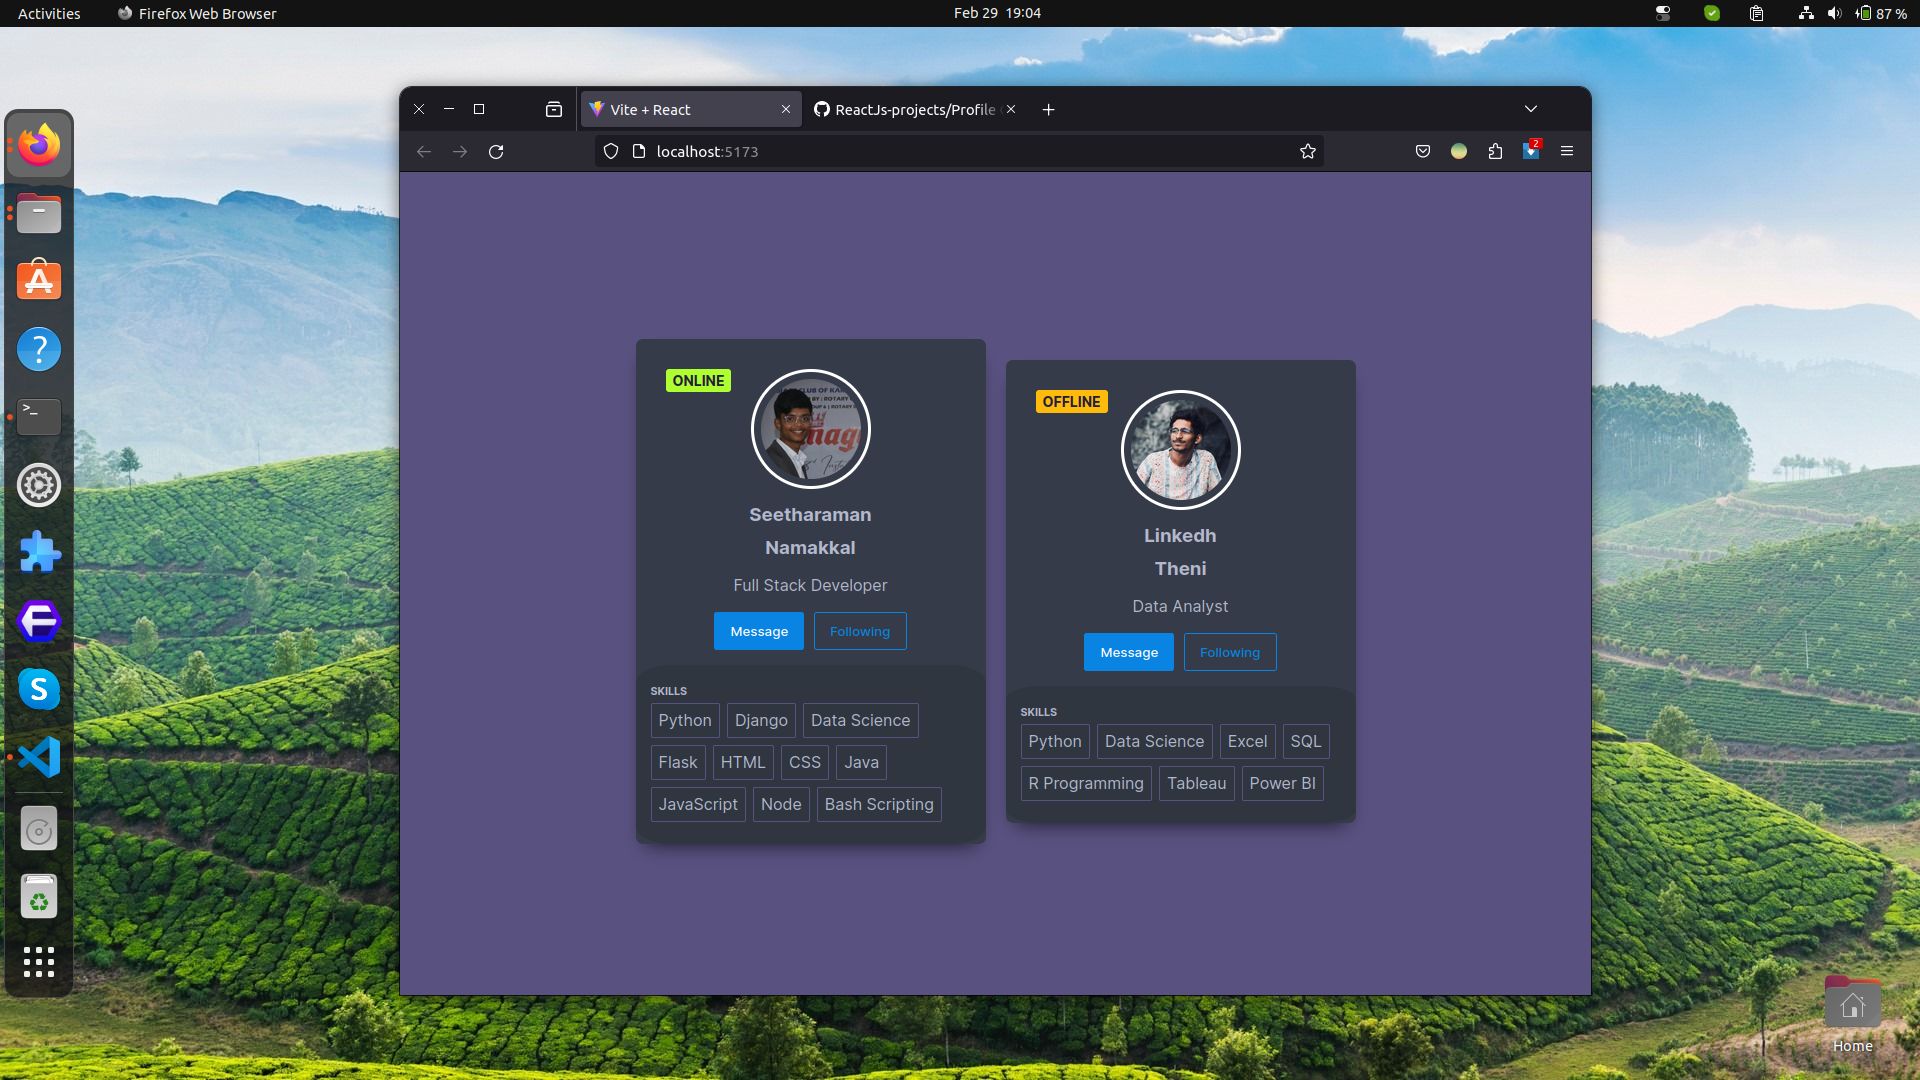
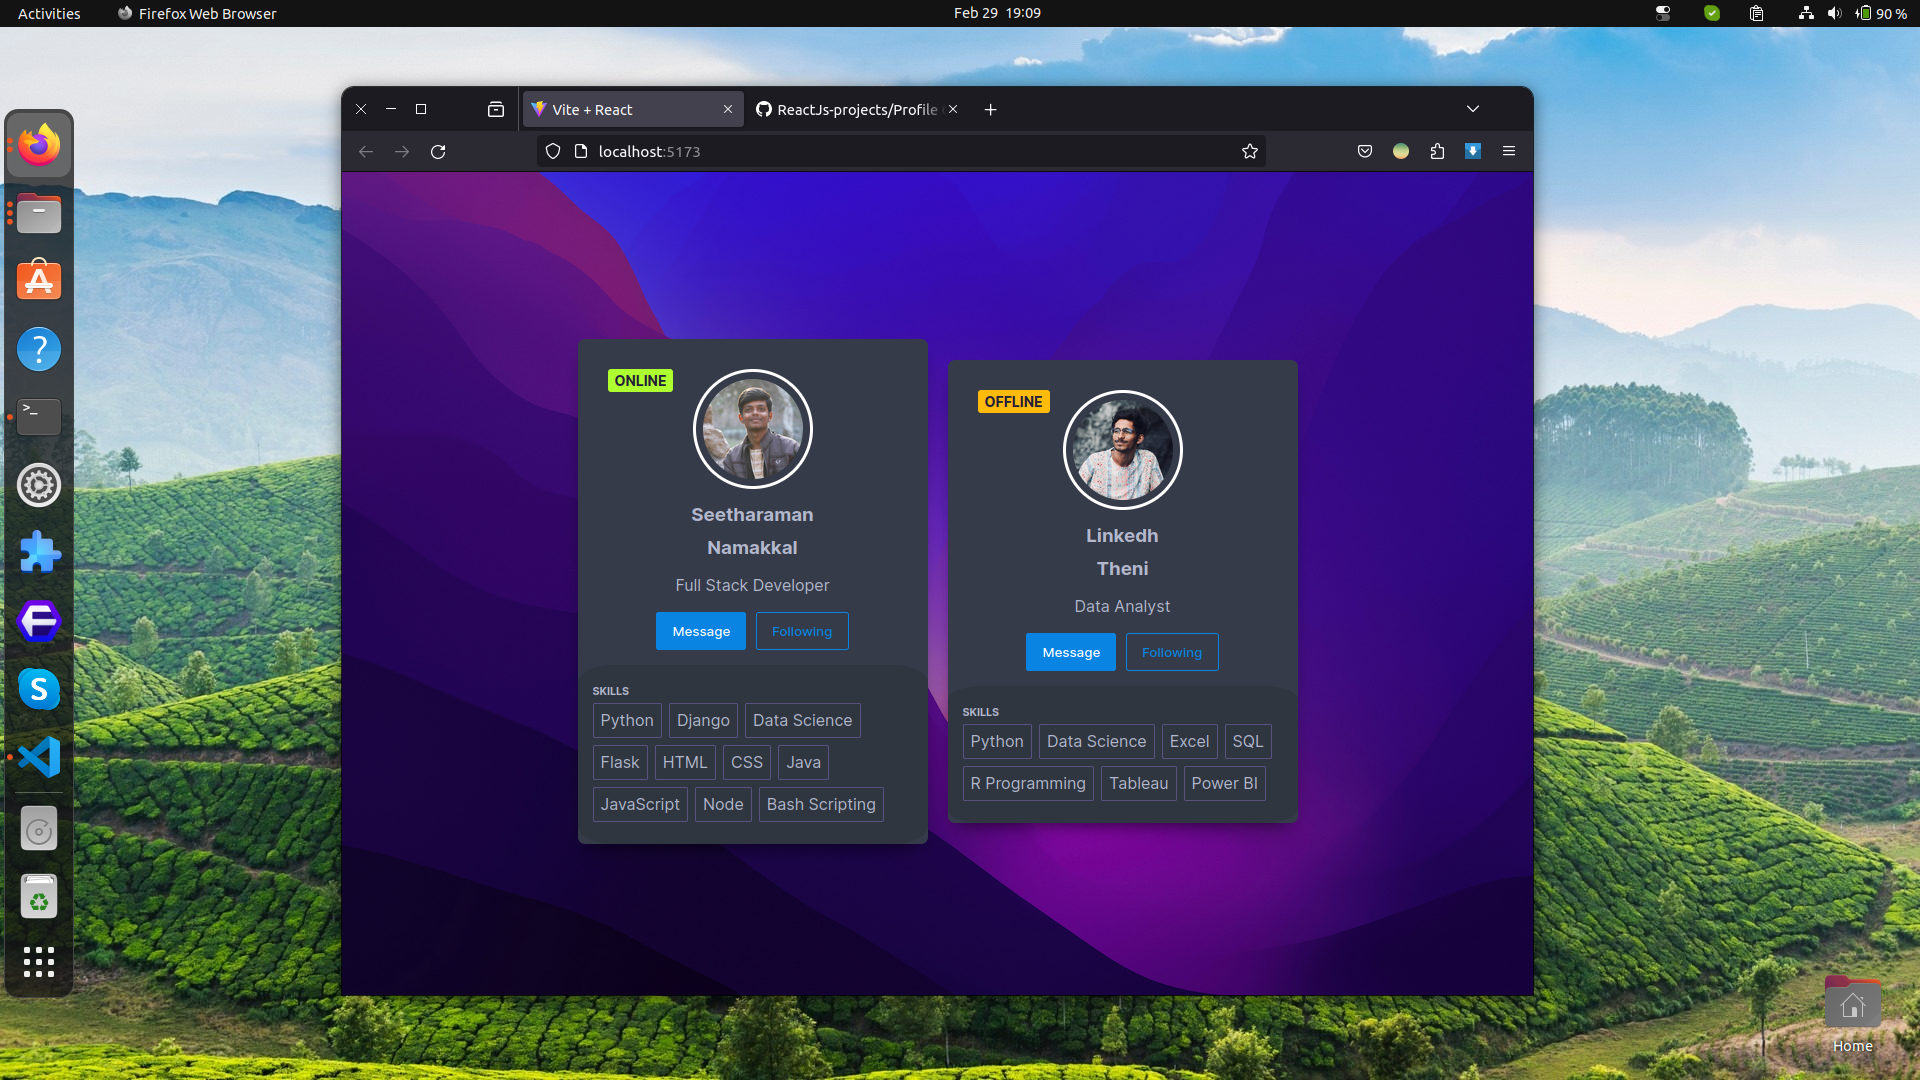
Added background

diff --git a/Profile Card/src/index.css b/Profile Card/src/index.css
@@ -6,6 +6,10 @@
 
 body{
     background-color: #595180;
+    background-image: url('images/bg1.jpg');
+    background-size: cover;
+    background-position: center;
+    background-repeat: no-repeat;
     font-family: "Inter", sans-serif;
 }
 
